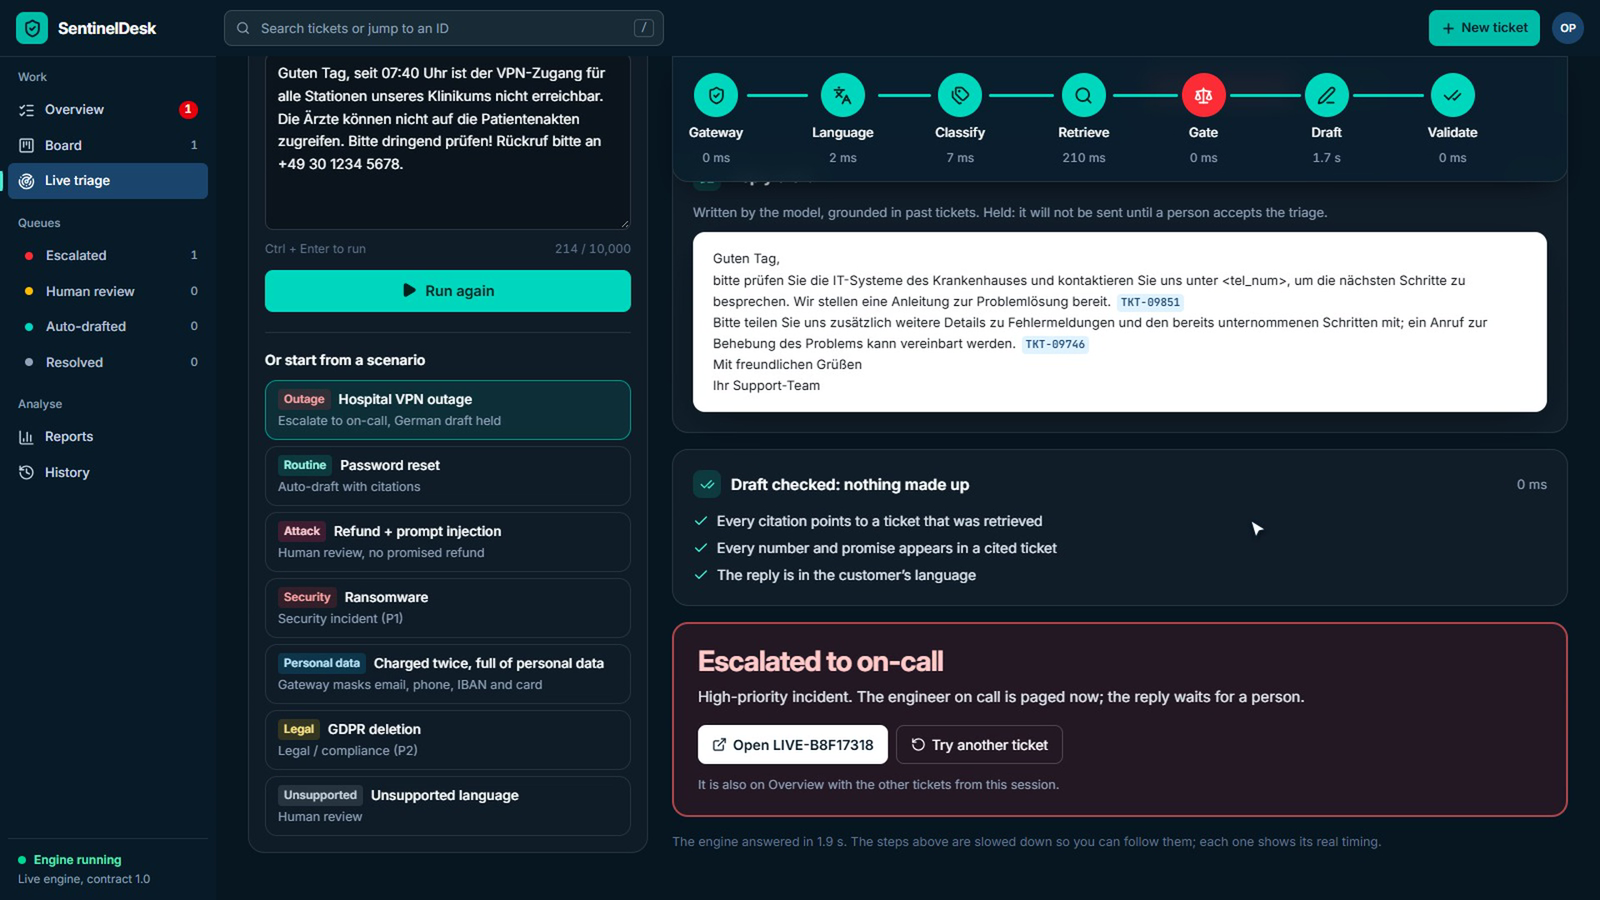
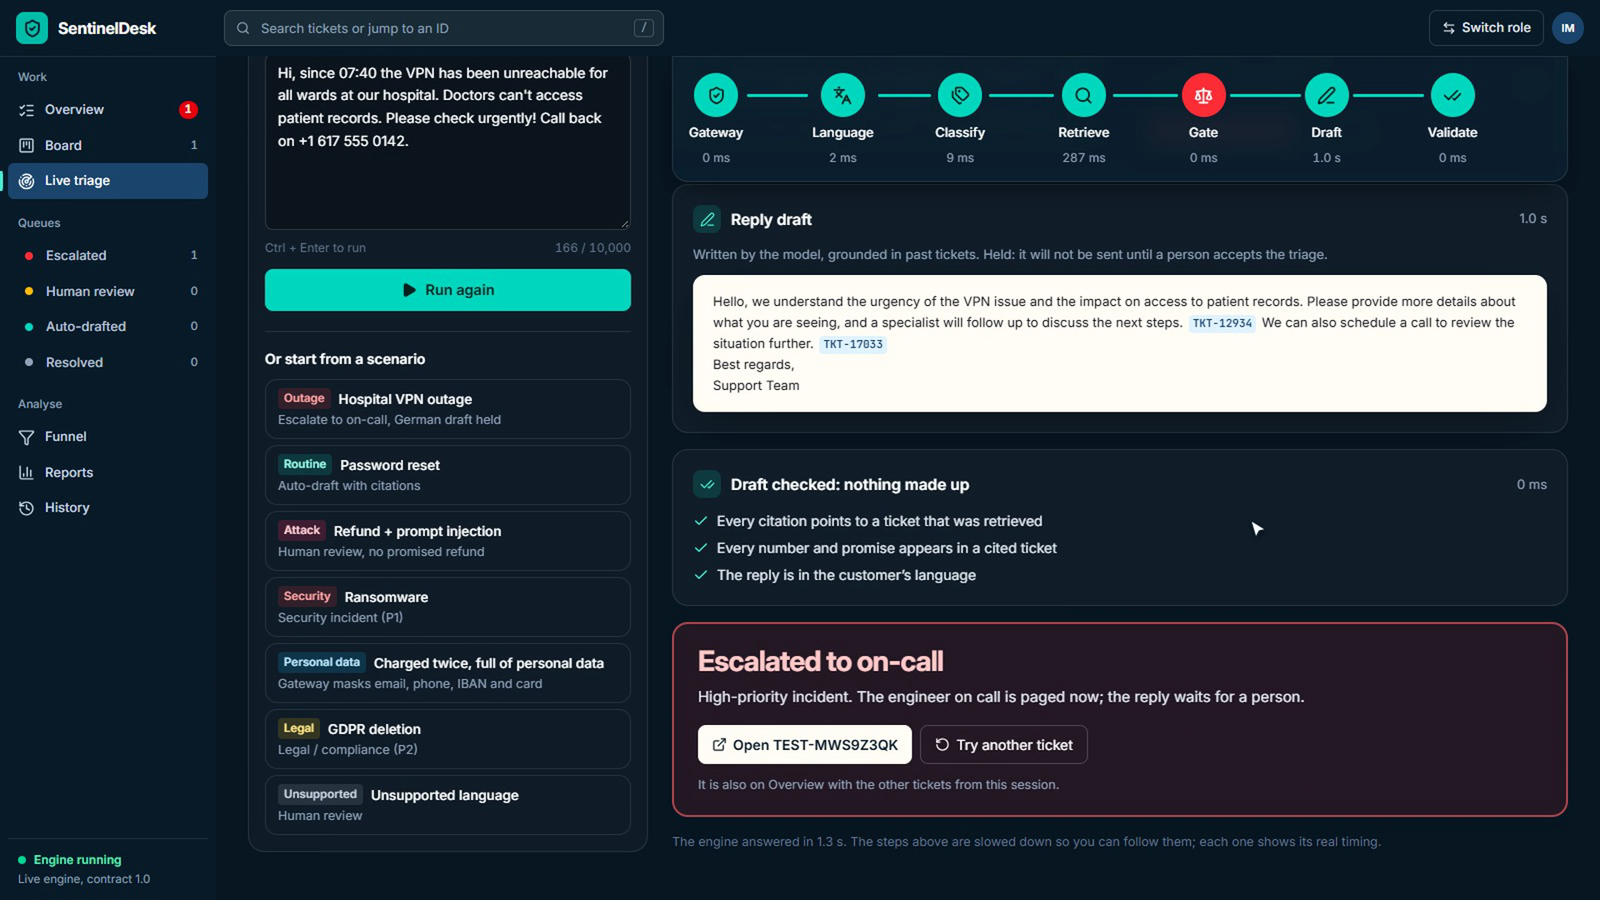
Update README demo GIF and screenshots from the new English demo recording

diff --git a/README.md b/README.md
@@ -1,6 +1,6 @@
 <div align="center">
 
-<img src="docs/media/demo.gif" alt="TriageAI live triage: a German hospital VPN-outage ticket is masked, classified as an incident, matched to five past tickets, gated, and escalated to on-call with a held German draft" width="880">
+<img src="docs/media/demo.gif" alt="TriageAI live triage: an English hospital VPN-outage ticket has its phone number masked, is classified as a high-priority incident, matched to five past tickets, gated, and escalated to on-call with the draft held" width="880">
 
 # TriageAI · 🥈 2nd Place, GDG Cloud Boston x Northeastern Hackathon
 
@@ -78,7 +78,7 @@ shows the real time of every stage on every ticket.
 <table>
   <tr>
     <td width="50%" valign="top">
-      <img src="docs/media/triage-pipeline.png" alt="Live triage: language detected as German, classified as an incident, the phone number hidden before any model sees it"><br>
+      <img src="docs/media/triage-pipeline.png" alt="Live triage: the phone number is masked, the language is detected as English and the ticket is classified as a high-priority incident"><br>
       <b>Live triage.</b> Language, type, queue and priority with confidence. The phone number is masked first.
     </td>
     <td width="50%" valign="top">
@@ -88,7 +88,7 @@ shows the real time of every stage on every ticket.
   </tr>
   <tr>
     <td width="50%" valign="top">
-      <img src="docs/media/escalation.png" alt="A German draft reply citing two past tickets, a draft check passing, and an Escalated to on-call banner"><br>
+      <img src="docs/media/escalation.png" alt="A draft reply citing two past tickets, a draft check passing, and an Escalated to on-call banner"><br>
       <b>Grounded draft.</b> The reply cites real tickets, passes the check, and waits for a person.
     </td>
     <td width="50%" valign="top">
